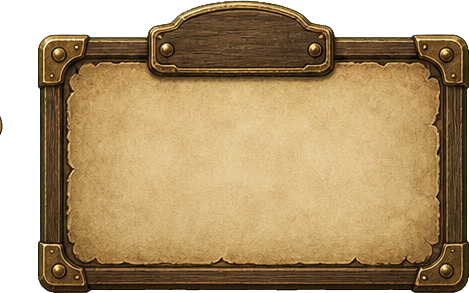
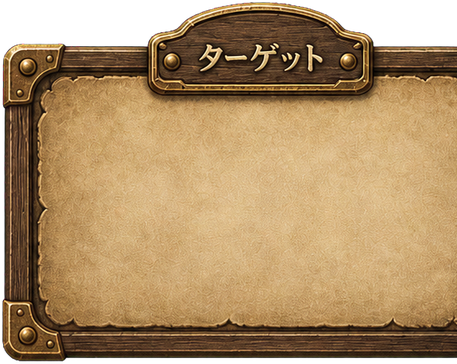
yacho: UI文字を画像に焼き込み（ターゲット/のこり/つぎへ/探索成功リボン/勝利バナー4案生成・暫定みつけた！採用）＋レイアウト調整

diff --git a/games/yacho/src/main.ts b/games/yacho/src/main.ts
@@ -61,7 +61,7 @@ async function boot() {
   const fs = (r: number) => Math.round(vw * r) // フォントスケール
 
   // 左上: MOVES 木札（生成UI部材。無ければコード描きにフォールバック）
-  const badgeW = vw * 0.17
+  const badgeW = vw * 0.2
   const plaqueTex = spriteTexture('ui_moves')
   let badgeH = vw * 0.19
   if (plaqueTex) {
@@ -77,16 +77,14 @@ async function boot() {
     badge.position.set(vw * 0.03, vh * 0.025)
     ui.addChild(badge)
   }
-  const movesLabel = new Text({ text: 'のこり', style: { fill: UI.badgeText, fontSize: fs(0.03), fontFamily: 'serif' } })
-  movesLabel.anchor.set(0.5)
-  movesLabel.position.set(vw * 0.03 + badgeW / 2, vh * 0.025 + badgeH * 0.17)
+  // 「のこり」ラベルは木札に焼き込み済み。数字だけコード描画
   const movesText = new Text({
     text: '',
     style: { fill: UI.badgeText, fontSize: fs(0.08), fontFamily: 'serif', fontWeight: 'bold' },
   })
   movesText.anchor.set(0.5)
-  movesText.position.set(vw * 0.03 + badgeW / 2, vh * 0.025 + badgeH * 0.58)
-  ui.addChild(movesLabel, movesText)
+  movesText.position.set(vw * 0.03 + badgeW / 2, vh * 0.025 + badgeH * 0.62)
+  ui.addChild(movesText)
 
   // スコア（バッジ下に小さく）
   const scoreText = new Text({
@@ -121,7 +119,7 @@ async function boot() {
   ui.addChild(gear)
 
   // 上中央〜右: ターゲット札（生成の羊皮紙パネル。タブ付き）
-  const tpW = vw * 0.55
+  const tpW = vw * 0.44
   const tpTex = spriteTexture('ui_target')
   const tpH = tpTex ? (tpW / tpTex.width) * tpTex.height : badgeH
   const tp = new Container()
@@ -135,11 +133,8 @@ async function boot() {
     tpBg.roundRect(0, 0, tpW, tpH, 10).fill(UI.paper).stroke({ width: 3, color: UI.woodLight })
     tp.addChild(tpBg)
   }
-  const tpLabel = new Text({ text: 'ターゲット', style: { fill: UI.badgeText, fontSize: fs(0.028), fontFamily: 'serif' } })
-  tpLabel.anchor.set(0.5)
-  tpLabel.position.set(tpW / 2, tpH * 0.1) // タブの帯に載せる
-  tp.addChild(tpLabel)
-  tp.position.set(vw * 0.26, vh * 0.02)
+  // 「ターゲット」ラベルはタブに焼き込み済み
+  tp.position.set(vw * 0.3, vh * 0.015)
   ui.addChild(tp)
 
   // ターゲット札の中身（ゴールごとにアイコン＋残数）
@@ -171,13 +166,13 @@ async function boot() {
     board.goals.forEach((g, i) => {
       const icon = goalIcon(g)
       const cx = tpW * (0.5 + (i - (board.goals.length - 1) / 2) * 0.3)
-      icon.position.set(cx - tpW * 0.08, tpH * 0.58)
+      icon.position.set(cx - tpW * 0.12, tpH * 0.58)
       const count = new Text({
         text: '',
         style: { fill: UI.paperInk, fontSize: fs(0.045), fontFamily: 'serif', fontWeight: 'bold' },
       })
       count.anchor.set(0, 0.5)
-      count.position.set(cx + tpW * 0.015, tpH * 0.58)
+      count.position.set(cx + tpW * 0.03, tpH * 0.58)
       tp.addChild(icon)
       tp.addChild(count)
       goalItems.push({ icon, count, idx: i })
@@ -335,20 +330,20 @@ async function boot() {
     scene.addChild(dim)
     tw.tween(dim, { alpha: 0.45 }, 250)
     const bt = new Container()
-    const ribbonTex = spriteTexture('ui_ribbon')
-    if (ribbonTex) {
-      const rb = new Sprite(ribbonTex)
+    const bannerTex = spriteTexture('ui_banner_word') ?? spriteTexture('ui_ribbon')
+    if (bannerTex) {
+      const rb = new Sprite(bannerTex)
       rb.anchor.set(0.5)
-      rb.scale.set((vw * 0.86) / ribbonTex.width)
+      rb.scale.set((vw * 0.86) / bannerTex.width)
       bt.addChild(rb)
+    } else {
+      const btText = new Text({
+        text: 'みつけた！',
+        style: { fill: UI.brass, fontSize: fs(0.08), fontFamily: 'serif', fontWeight: 'bold' },
+      })
+      btText.anchor.set(0.5)
+      bt.addChild(btText)
     }
-    const btText = new Text({
-      text: '見事な探窟！',
-      style: { fill: 0xf6e7c6, fontSize: fs(0.062), fontFamily: 'serif', fontWeight: 'bold', stroke: { color: 0x4a1717, width: 4 } },
-    })
-    btText.anchor.set(0.5)
-    btText.position.set(0, -vw * 0.035) // リボン本体の帯に載せる
-    bt.addChild(btText)
     bt.position.set(vw / 2, vh * 0.45)
     bt.scale.set(0)
     scene.addChild(bt)
@@ -402,23 +397,17 @@ async function boot() {
       bg.roundRect(px0, py0, pw, ph, 14).fill(UI.paper).stroke({ width: 4, color: UI.woodLight })
       panel.addChild(bg)
     }
-    const ribbonTex2 = spriteTexture('ui_ribbon')
+    // 「探索成功！」焼き込みリボン
+    const ribbonTex2 = spriteTexture('ui_ribbon_clear') ?? spriteTexture('ui_ribbon')
     if (ribbonTex2) {
       const rb = new Sprite(ribbonTex2)
       rb.anchor.set(0.5)
-      rb.scale.set((pw * 0.8) / ribbonTex2.width)
-      rb.position.set(vw / 2, py0 + vh * 0.005)
+      rb.scale.set((pw * 0.82) / ribbonTex2.width)
+      rb.position.set(vw / 2, py0 + vh * 0.002)
       panel.addChild(rb)
     }
-    const title = new Text({
-      text: '探索成功！',
-      style: { fill: 0xf6e7c6, fontSize: fs(0.05), fontFamily: 'serif', fontWeight: 'bold', stroke: { color: 0x4a1717, width: 4 } },
-    })
-    title.anchor.set(0.5)
-    title.position.set(vw / 2, py0 - vw * 0.02)
-    panel.addChild(title)
     // 星（1つずつバウンドで出す）
-    const starY = py0 + ph * 0.24
+    const starY = py0 + ph * 0.32
     for (let i = 0; i < 3; i++) {
       const filled = i < board.stars
       const st = new Text({
@@ -444,16 +433,24 @@ async function boot() {
     sc.anchor.set(0.5)
     sc.position.set(vw / 2, py0 + ph * 0.55)
     panel.addChild(sc)
-    // つぎへボタン
+    // つぎへボタン（文字焼き込み部材）
     const btn = new Container()
     const bw2 = pw * 0.6
     const bh2 = vh * 0.06
-    const bg2 = new Graphics()
-    bg2.roundRect(-bw2 / 2, -bh2 / 2, bw2, bh2, 12).fill(0x5d7a3f).stroke({ width: 3, color: 0x3f5429 })
-    btn.addChild(bg2)
-    const bt2 = new Text({ text: 'つぎへ', style: { fill: 0xf4f8ea, fontSize: fs(0.05), fontFamily: 'serif', fontWeight: 'bold' } })
-    bt2.anchor.set(0.5)
-    btn.addChild(bt2)
+    const btnTex = spriteTexture('ui_button_next')
+    if (btnTex) {
+      const sp = new Sprite(btnTex)
+      sp.anchor.set(0.5)
+      sp.scale.set(bw2 / btnTex.width)
+      btn.addChild(sp)
+    } else {
+      const bg2 = new Graphics()
+      bg2.roundRect(-bw2 / 2, -bh2 / 2, bw2, bh2, 12).fill(0x5d7a3f).stroke({ width: 3, color: 0x3f5429 })
+      btn.addChild(bg2)
+      const bt2 = new Text({ text: 'つぎへ', style: { fill: 0xf4f8ea, fontSize: fs(0.05), fontFamily: 'serif', fontWeight: 'bold' } })
+      bt2.anchor.set(0.5)
+      btn.addChild(bt2)
+    }
     btn.position.set(vw / 2, py0 + ph * 0.85)
     btn.eventMode = 'static'
     btn.cursor = 'pointer'

diff --git a/games/yacho/src/view/pieces.ts b/games/yacho/src/view/pieces.ts
@@ -27,6 +27,10 @@ const SPRITE_URLS: Record<string, URL> = {
   ui_medal: new URL('../../assets/ui/medallion.png', import.meta.url),
   ui_gear: new URL('../../assets/ui/gear.png', import.meta.url),
   ui_parchment: new URL('../../assets/ui/parchment.png', import.meta.url),
+  // 文字焼き込み部材（ラベルはコード描画せずこちらを使う）
+  ui_button_next: new URL('../../assets/ui/button_next.png', import.meta.url),
+  ui_ribbon_clear: new URL('../../assets/ui/ribbon_clear.png', import.meta.url),
+  ui_banner_word: new URL('../../assets/ui/banner_mitsuketa.png', import.meta.url),
   // 層テーマ背景（Lv1-10 森 / 11-20 機械遺跡 / 21-30 結晶洞窟）
   bg_forest: new URL('../../assets/bg/bg_forest.png', import.meta.url),
   bg_machine: new URL('../../assets/bg/bg_machine.png', import.meta.url),
